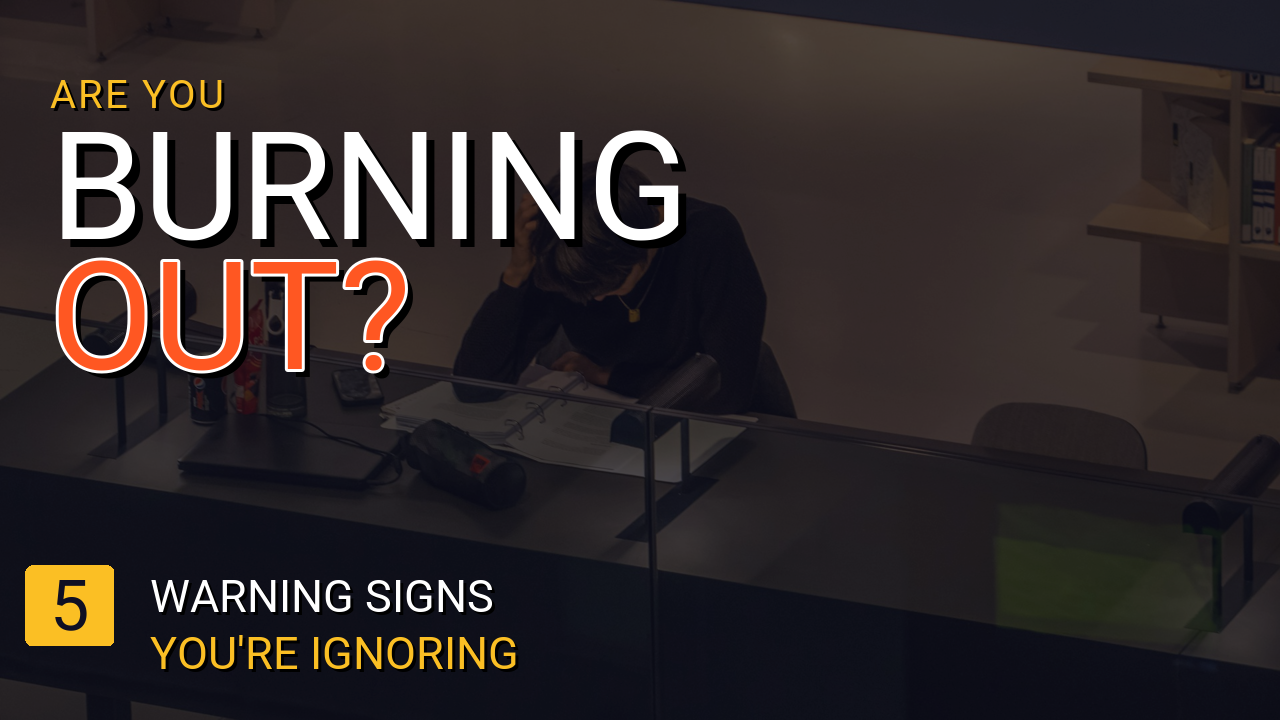
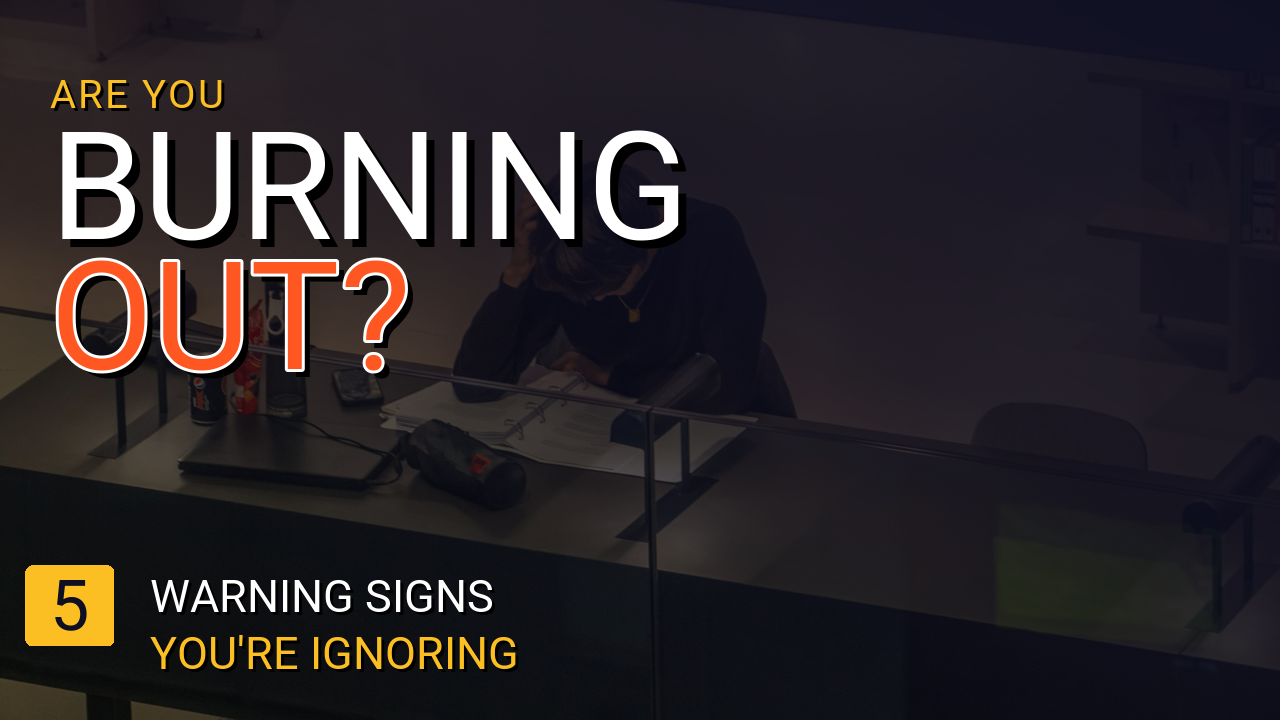
🐛 Enhance linear gradient support to include alpha transparency

Changed region(s): [[0.3438, 0.0, 1.0, 0.55], [0.0, 0.9472, 0.0625, 1.0], [0.0938, 0.9778, 0.1562, 1.0]]

diff --git a/quickthumb/canvas.py b/quickthumb/canvas.py
@@ -1261,12 +1261,15 @@ class Canvas:
 
     def _create_gradient_lut(
         self, stops: list[tuple[str, float]]
-    ) -> tuple[list[int], list[int], list[int]]:
-        r_lut, g_lut, b_lut = [], [], []
+    ) -> tuple[list[int], list[int], list[int], list[int]]:
+        r_lut, g_lut, b_lut, a_lut = [], [], [], []
 
         parsed_stops = []
         for color, pos in stops:
             parsed_color = self._parse_color(color)
+            # Ensure color has alpha channel (default to 255 if not provided)
+            if len(parsed_color) == 3:
+                parsed_color = (*parsed_color, 255)
             parsed_stops.append((parsed_color, pos))
 
         for i in range(256):
@@ -1276,9 +1279,9 @@ class Canvas:
             color2, pos2 = parsed_stops[-1]
 
             if pos <= pos1:
-                r, g, b = color1[:3]
+                r, g, b, a = color1[:4]
             elif pos >= pos2:
-                r, g, b = color2[:3]
+                r, g, b, a = color2[:4]
             else:
                 for j in range(len(parsed_stops) - 1):
                     c1, p1 = parsed_stops[j]
@@ -1288,13 +1291,15 @@ class Canvas:
                         r = int(c1[0] + (c2[0] - c1[0]) * ratio)
                         g = int(c1[1] + (c2[1] - c1[1]) * ratio)
                         b = int(c1[2] + (c2[2] - c1[2]) * ratio)
+                        a = int(c1[3] + (c2[3] - c1[3]) * ratio)
                         break
 
             r_lut.append(r)
             g_lut.append(g)
             b_lut.append(b)
+            a_lut.append(a)
 
-        return r_lut, g_lut, b_lut
+        return r_lut, g_lut, b_lut, a_lut
 
     def _create_linear_gradient(
         self, size: tuple[int, int], angle: float, stops: list[tuple[str, float]]
@@ -1315,12 +1320,13 @@ class Canvas:
         top = (diagonal - height) // 2
         gradient_mask = gradient_mask.crop((left, top, left + width, top + height))
 
-        r_lut, g_lut, b_lut = self._create_gradient_lut(stops)
+        r_lut, g_lut, b_lut, a_lut = self._create_gradient_lut(stops)
         r = gradient_mask.point(r_lut)
         g = gradient_mask.point(g_lut)
         b = gradient_mask.point(b_lut)
+        a = gradient_mask.point(a_lut)
 
-        return Image.merge("RGB", (r, g, b)).convert("RGBA")
+        return Image.merge("RGBA", (r, g, b, a))
 
     def _create_radial_gradient(
         self, size: tuple[int, int], stops: list[tuple[str, float]], center: tuple[float, float]
@@ -1348,12 +1354,13 @@ class Canvas:
 
         gradient_mask = gradient_mask.crop((left, top, left + width, top + height))
 
-        r_lut, g_lut, b_lut = self._create_gradient_lut(stops)
+        r_lut, g_lut, b_lut, a_lut = self._create_gradient_lut(stops)
         r = gradient_mask.point(r_lut)
         g = gradient_mask.point(g_lut)
         b = gradient_mask.point(b_lut)
+        a = gradient_mask.point(a_lut)
 
-        return Image.merge("RGB", (r, g, b)).convert("RGBA")
+        return Image.merge("RGBA", (r, g, b, a))
 
     def _apply_blend_func(
         self,

diff --git a/tests/test_rendering.py b/tests/test_rendering.py
@@ -205,6 +205,32 @@ class TestRendering:
             with open(output_path, "rb") as f:
                 assert f.read() == external_file("snapshots/percentage_with_alignment.png")
 
+    def test_snapshot_linear_gradient_with_alpha(self):
+        """Snapshot test for linear gradient rendering with alpha transparency in color stops"""
+        from quickthumb import Canvas
+        from quickthumb.models import LinearGradient
+
+        # Given: A linear gradient from opaque red to transparent red (with alpha)
+        gradient = LinearGradient(
+            type="linear", angle=0, stops=[("#FF0000FF", 0.0), ("#FF000000", 1.0)]
+        )
+
+        # When: Rendering gradient over a checkerboard pattern (to see transparency)
+        canvas = (
+            Canvas(400, 300)
+            .background(color="#FFFFFF")
+            .background(color="#2196F3", opacity=1.0)  # Blue base
+            .background(gradient=gradient)
+        )
+
+        with tempfile.TemporaryDirectory() as tmpdir:
+            output_path = os.path.join(tmpdir, "output.png")
+            canvas.render(output_path)
+
+            # Then: Should show gradient fading from red to transparent (revealing gray)
+            with open(output_path, "rb") as f:
+                assert f.read() == external_file("snapshots/linear_gradient_with_alpha.png")
+
     def test_snapshot_linear_gradient_horizontal(self):
         """Snapshot test for linear gradient rendering with horizontal direction (0 degrees)"""
         from quickthumb import Canvas

diff --git a/examples/youtube_thumbnail_02.py b/examples/youtube_thumbnail_02.py
@@ -4,13 +4,13 @@ YouTube Thumbnail Example - Burnout Theme (Redesigned)
 Professional thumbnail with:
 - High contrast typography (Roboto Black)
 - Manual drop shadows (workaround for library limitation)
-- Solid overlay for depth (workaround for gradient alpha limitation)
+- Gradient overlay for depth
 - Strong visual hierarchy
 """
 
 import os
 
-from quickthumb import Canvas, FitMode
+from quickthumb import Canvas, FitMode, LinearGradient
 from quickthumb.models import Background, Stroke
 
 FILE_DIR = os.path.dirname(__file__)
@@ -31,10 +31,14 @@ HEIGHT = 720
         fit=FitMode.COVER,
         brightness=0.7,  # Darken original image
     )
-    # 2. Dark Overlay for readability (Replaces gradient due to alpha limitation)
-    # Using a solid dark blue with high transparency to darken the whole image further
-    # to ensure white text pops.
-    .background(color="#0f0f23", opacity=0.6)
+    # 2. Gradient Overlay (Dark bottom-left to transparent top-right)
+    # This ensures text readability on the left side
+    .background(
+        gradient=LinearGradient(
+            angle=120, stops=[("#0f0f23", 0.0), ("#0f0f23cc", 0.4), ("#0f0f2300", 1.0)]
+        ),
+        opacity=1.0,
+    )
     # 3. Typography
     # Subtitle: "ARE YOU"
     # Manual Shadow

diff --git a/PROGRESS.md b/PROGRESS.md
@@ -77,4 +77,3 @@
 - [ ] Extended documentation/examples
 - [ ] Background Removal for image
 - [ ] FIX: Shadow effect raises `ValueError: anchor not supported for multiline text` in some environments.
-- [ ] FIX: LinearGradient does not correctly support alpha transparency in color stops (renders as opaque).
